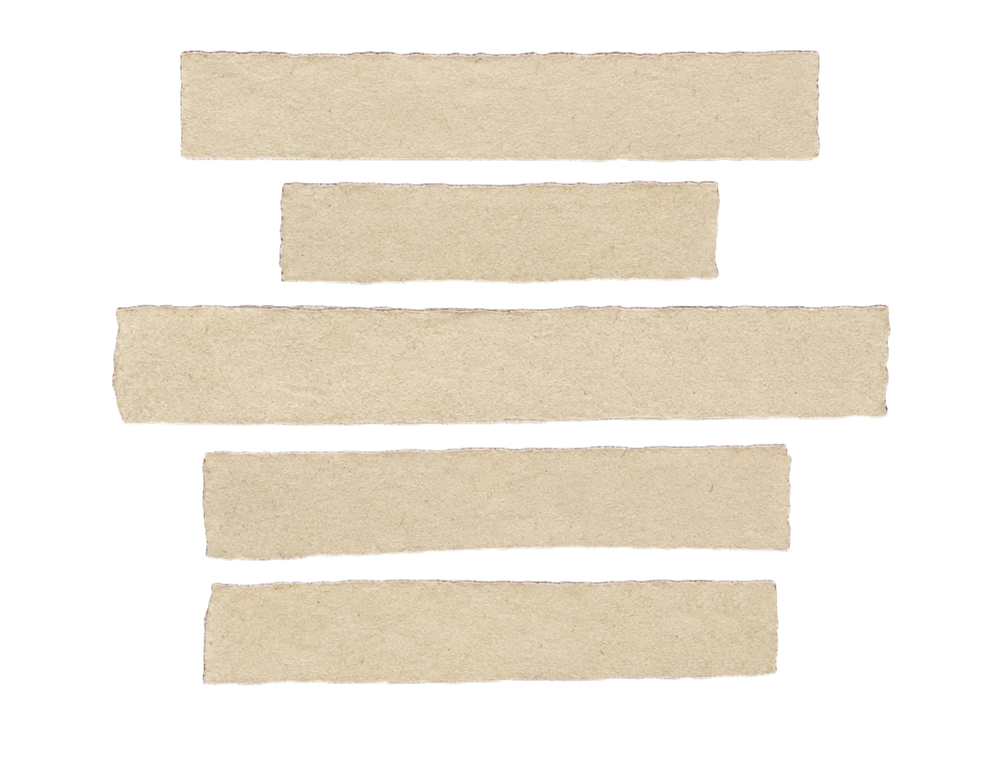
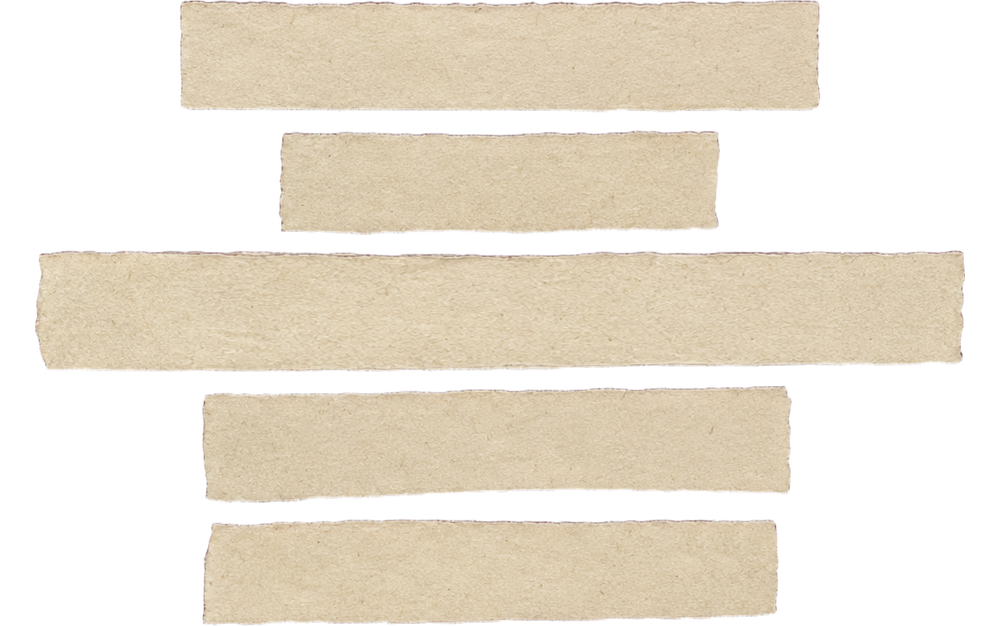
Widen 3rd paper tape to fit text and reduce excessive gap after memo

diff --git a/index.html b/index.html
@@ -13,7 +13,7 @@
   <link
     href="https://fonts.googleapis.com/css2?family=Gaegu:wght@400;700&family=Gowun+Batang:wght@400;700&family=Nanum+Pen+Script&family=Nothing+You+Could+Do&family=Reenie+Beanie&display=swap"
     rel="stylesheet">
-  <link rel="stylesheet" href="style.css?v=40">
+  <link rel="stylesheet" href="style.css?v=41">
 </head>
 
 <body>
@@ -48,15 +48,15 @@
       <div class="locket reveal"><img src="img/locket.png?v=27" alt="신랑신부 로켓 목걸이"></div>
 
       <div class="tapes reveal">
-        <img src="img/tape.png" alt="">
-        <p style="top:13.4%">마주 보며 웃던 설렘이</p>
-        <p style="top:30%">서로에게 스며들어</p>
-        <p style="top:47.7%">이제는 서로의 모든 계절을 온전히 함께하려 합니다.</p>
-        <p style="top:65%">닮은 모습으로 배려하며</p>
-        <p style="top:82.4%">평생을 함께 걷겠습니다.</p>
+        <img src="img/tape.png?v=2" alt="">
+        <p style="top:9.1%">마주 보며 웃던 설렘이</p>
+        <p style="top:29.1%">서로에게 스며들어</p>
+        <p class="long" style="top:49.7%">이제는 서로의 모든 계절을 온전히 함께하려 합니다.</p>
+        <p style="top:71.1%">닮은 모습으로 배려하며</p>
+        <p style="top:91.4%">평생을 함께 걷겠습니다.</p>
       </div>
       <p class="msg reveal">
-        서로의 든든한 안식처가 되어줄 시작의 날,<br><br>
+        서로의 든든한 안식처가 되어줄 시작의 날,<br>
         귀한 걸음으로 함께해 주시어 축복해 주세요.
       </p>
       <div class="wide-photo reveal"><img src="img/wide.jpg?v=1" alt="신랑 신부 사진"></div>

diff --git a/style.css b/style.css
@@ -224,11 +224,11 @@ img {
 .tapes {
   position: relative;
   container-type: inline-size;
-  margin: 20px -10px 20px
+  margin: 16px -10px 10px;
 }
 
 .tapes img {
-  width: 100%
+  width: 100%;
 }
 
 .tapes p {
@@ -240,12 +240,21 @@ img {
   font-weight: 700;
   font-size: 5.4cqw;
   color: #2c1a12;
-  line-height: 1
+  line-height: 1;
+  text-align: center;
+  white-space: nowrap;
+}
+
+.tapes p.long {
+  font-size: 4.8cqw;
+  letter-spacing: -0.015em;
 }
 
 .msg {
-  font-size: 19px;
-  line-height: 2
+  font-size: 18px;
+  line-height: 1.85;
+  margin: 18px auto 0;
+  word-break: keep-all;
 }
 
 .wide-photo {
